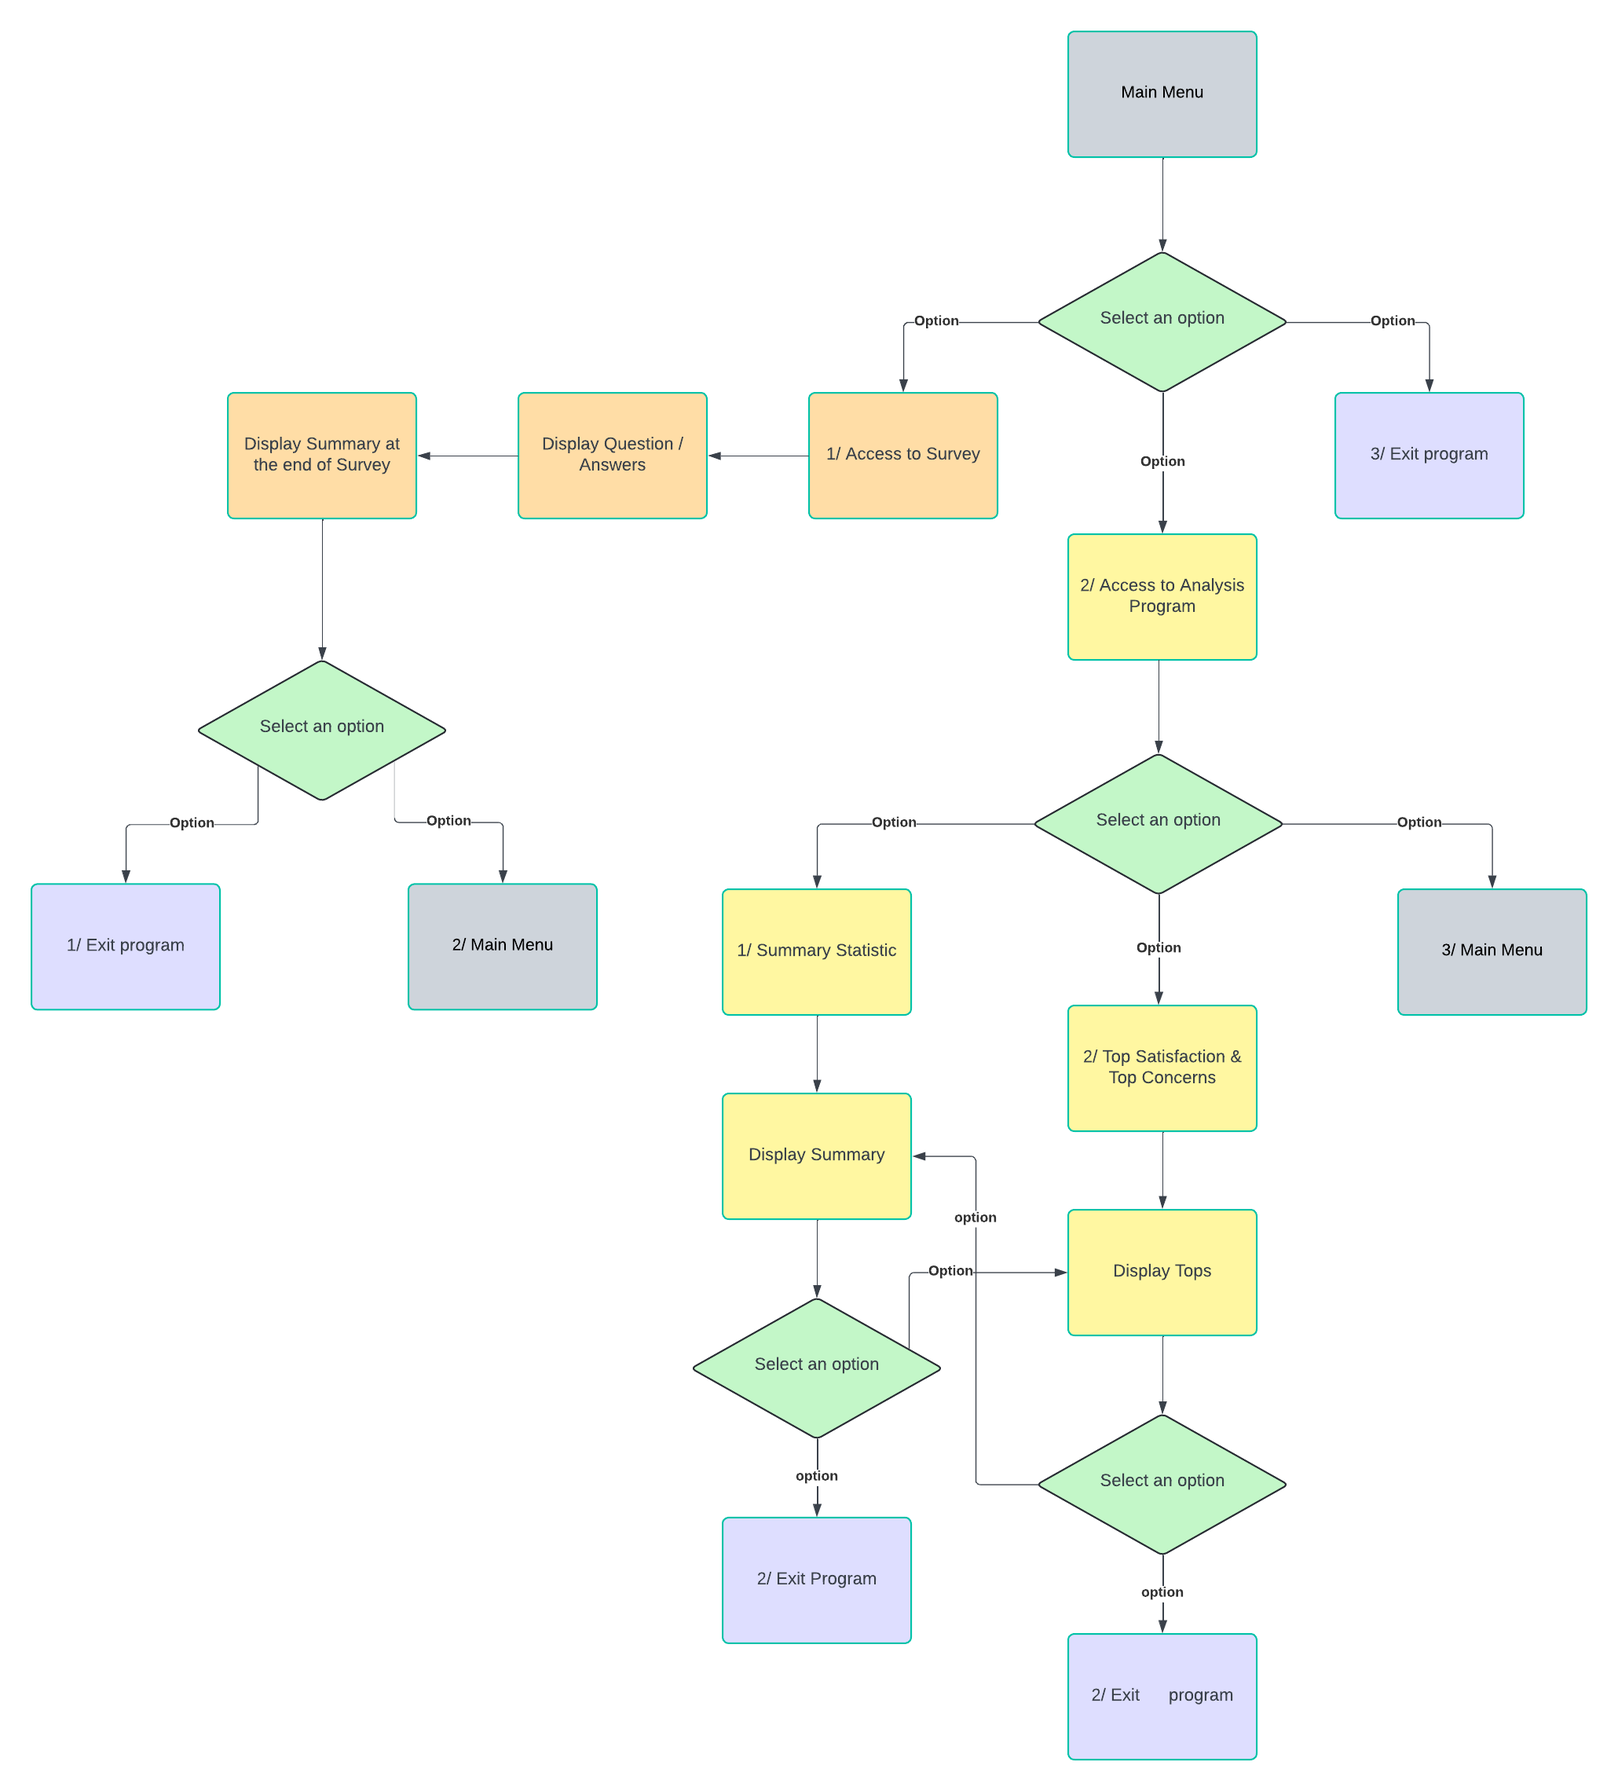
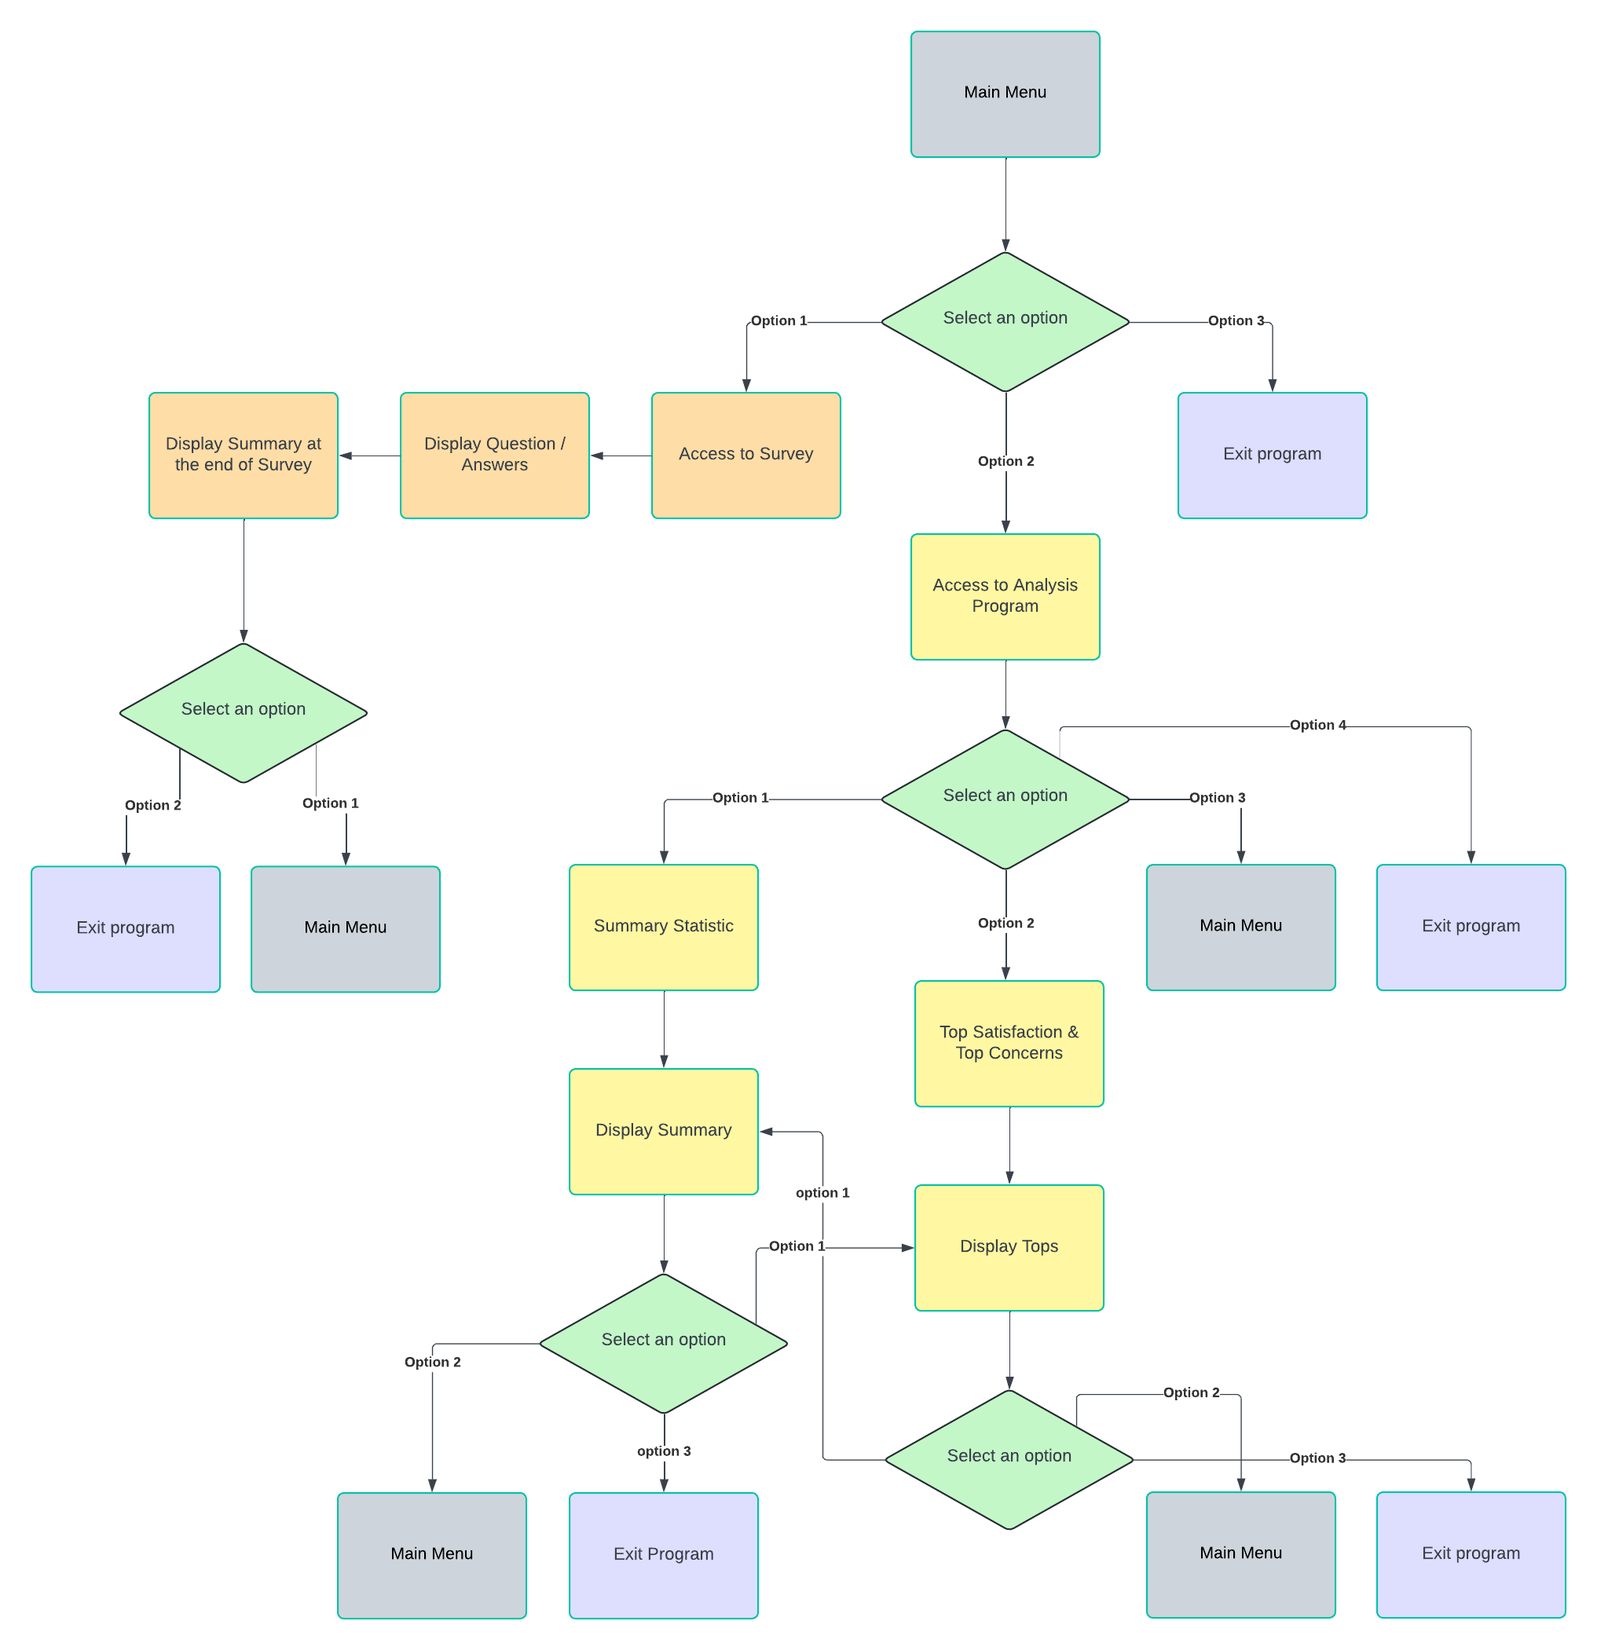
Update README.md.

Changed region(s): [[0.0, 0.1238, 0.9916, 0.99], [0.5578, 0.0, 0.7747, 0.1238], [0.2479, 0.8044, 0.2789, 0.8353]]

diff --git a/run.py b/run.py
@@ -32,20 +32,17 @@ class MenuOptions:
 main_menu = [
     MenuOptions(1, "Access to Survey"),
     MenuOptions(2, "Access to Analysis Program"),
-    MenuOptions(3, "Exit Program")
+    MenuOptions(3, "Exit Program"),
 ]
 
 analysis_menu = [
     MenuOptions(1, "Summary Statistic"),
     MenuOptions(2, "Top Satisfaction & Top Concerns"),
     MenuOptions(3, "Back to Main Menu"),
-    MenuOptions(4, "Exit Program")
+    MenuOptions(4, "Exit Program"),
 ]
 
-next_action_menu = [
-    MenuOptions(1, "Back to Main Menu"),
-    MenuOptions(2, "Exit Program")
-]
+next_action_menu = [MenuOptions(1, "Back to Main Menu"), MenuOptions(2, "Exit Program")]
 
 # Dictionary with Question as key and list of answers as values.
 question_options = {
@@ -150,7 +147,7 @@ def display_main_menu():
     choices = {
         1: ("Accessing Moodtracker Survey...\n", access_survey),
         2: ("Accessing Analysis Program...\n", display_analysis_menu),
-        3: ("Exiting Program...", quit)
+        3: ("Exiting Program...", quit),
     }
     # CREATE A NEW FUNCTION FOR THIS BLOC THAT REPEATS IN DIFFERENT FUNCTIONS?
     if choice in choices:
@@ -166,9 +163,7 @@ def get_user_choice(options):
     # Prompts user for an option.
     while True:
         try:
-            choice = int(
-                input(f"\nPlease enter your selection (1-{len(options)}):\n")
-                )
+            choice = int(input(f"\nPlease enter your selection (1-{len(options)}):\n"))
             if 1 <= choice <= len(options):
                 return choice
             else:
@@ -232,7 +227,7 @@ def next_action():
     # Dictionary to display and access next action.
     choices = {
         1: ("Accessing to Main Menu...\n", display_main_menu),
-        2: ("Exiting Program...", quit)
+        2: ("Exiting Program...", quit),
     }
 
     if choice in choices:
@@ -255,7 +250,7 @@ def display_analysis_menu():
         1: ("Accessing Summary Statistic...\n", summary_statistic),
         2: ("Accessing Top Satisfaction & Top Concerns...\n", top_analysis),
         3: ("Back to Main Menu...\n", display_main_menu),
-        4: ("Exiting Program...", quit)
+        4: ("Exiting Program...", quit),
     }
 
     if choice in choices:
@@ -336,9 +331,7 @@ def top_analysis():
 
         survey_score[header] = total_score
         sorted_score = sorted(
-            survey_score.items(),
-            key=lambda item: item[1],
-            reverse=True
+            survey_score.items(), key=lambda item: item[1], reverse=True
         )
 
     print("Survey results from highest to lowest score:\n")

diff --git a/README.md b/README.md
@@ -1,10 +1,10 @@
-# Moodtracker - The most modern Voice of the Employee tool on the market today.
+# Moodtracker - A modern Voice of the Employee tool.
 
 The [Moodtracker](https://satisfaction-survey-sd-a479e4d4f1cf.herokuapp.com/) project was inspired by a tool already in use at *Workhuman*, the company I work for. This tool is designed to gauge employee satisfaction and provide valuable insights through survey data analysis.
 
 This Python project is a simplified version of the *Workhuman - Moodtracker*. It provides a command-line program that serves two distinct purposes:
 - To allow employees to easily participate in a satisfaction survey.
-- To enable Human Ressources or management to analyze the survey data, generate key insights and identify areas for improvement.
+- To enable Human Ressources or management to analyse the survey data, generate key insights and identify areas for improvement.
 
 **For Employees (Survey Respondents)**:
 - As an employee, I want to easily access and complete the survey questions so that I can share my feedback on the company’s performance, culture and how I feel in my current role.
@@ -12,11 +12,9 @@ This Python project is a simplified version of the *Workhuman - Moodtracker*. It
 - As an employee, I want the survey process to be simple and straightforward so that I can complete it quickly without technical difficulties.
 
 **For Human Ressources & Managers (Survey Analysis)**:
-- As an HR manager, I want to collect and analyze employee responses from the survey so that I can identify satisfaction trends, review the overall sentiment and identify areas of concern within the company.
+- As an HR manager, I want to collect and analyse employee responses so that I can identify trends, review the overall sentiment and identify areas of concern within the company.
 
-- As a manager, I want to generate summary statistics and analyze top satisfaction / concern so I can make data-driven decisions to improve employee satisfaction.
-
-![Responsive Mockup](ADD PICTURE LINK HERE)
+- As a manager, I want to generate summary statistics and analyse top satisfaction and top concerns so I can make data-driven decisions to improve employee satisfaction.
 
 ## Features:
 
@@ -24,33 +22,52 @@ To define the structure of the program, I started by working with a flowchart on
 
 By using a flowchart, I wanted to ensure a smooth, logical flow of data throughout.
 
-![Flowchart](ADD PICTURE LINK HERE)
+![Flowchart](media/flowcharts.png)
 
 ### Existing Features:
 
-![MainMenu](ADD PICTURE LINK HERE)
 **Main Menu**
-- Overview: The Main Menu serves as a starting point for navigating between different sections of the program, allowing users to easily choose between starting the survey or accessing the analysis tools (for authorized personnel).
-- Features:
-  - Clear Option Presentation: The menu presents the available options in a simple, easy-to-read format, ensuring that users can make informed decisions.
+
+- *Overview*: The Main Menu serves as a starting point for navigating between different sections of the program, allowing users to easily choose between starting the survey or accessing the analysis tools.
+- *Features*:
+  - Clear Option Presentation: The menu presents the available options in a simple, easy-to-read format.
   - Input Validation: User inputs are validated to ensure that the selected menu options are valid. If an incorrect option is entered, the program will prompt the user to try again.
   - User Flow: The flow from the main menu to other parts of the program is intuitive, providing a seamless experience.
 
-![Survey](ADD PICTURE LINK HERE)
+![MainMenu](media/main_menu.png)
+
 **Moodtracker Survey**
-- Goal: To collect employee satisfaction levels, ensuring that employees feel heard and valued within the organization. This tool offers a simple and engaging way for employees to provide feedback regurlarly, on different aspects of their job and work environment.
-- Features:
+
+- *Goal*: To collect employee satisfaction levels, ensuring that employees feel heard and valued within the organisation. This tool offers a simple and engaging way for employees to provide feedback regurlarly, on different aspects of their job and work environment.
+- *Features*:
   - Question Display: Employees are presented with one question at a time, allowing them to focus and provide thoughtful responses.
   - Input Validation: The program ensures that all responses are valid by checking inputs. If an invalid input is detected, users are prompted to enter a correct value.
   - User Experience: The survey design is quite simple and user-friendly, guiding employees through the process seamlessly. Prompts and clear instructions make it easy for users to navigate and complete the survey.
+  - Summary: Displays user responses at the end of the survey, providing a clear overview of what will be recorded.
+  - Next Action: The program presents options to move to another section.
 
-![Analysis](ADD PICTURE LINK HERE)
+![Survey](media/survey.png)
+
+![SurveySummary](media/survey_summary.png)
+
+![NextAction](media/next_action.png)
+
 **Analysis Program**
-- Goal: To provide insightful data analysis from a large panel of employee responses, empowering HR and managers with actionable insights.
-- Feature: 
-  - Interactive Menu: The analysis section offers a clean, easy-to-navigate menu with multiple options, enabling users to explore survey results in detail.
-  - Input Validation: Similar to the survey section, user choices are validated. If an invalid selection is made, the program prompts the user to choose a valid option, maintaining smooth navigation.
+
+- *Goal*: To provide insightful data analysis from a large panel of employee responses, empowering Human Ressources and managers with actionable insights.
+- *Feature*: 
+  - Interactive Menu: The analysis section offers a easy-to-navigate menu with multiple options, enabling users to explore survey results in detail.
+  - Input Validation: Similar to the survey section, user choices are validated. If an invalid selection is made, the program prompts the user to choose a valid option.
   - User Experience: This section has been designed to give HR professionals and managers quick access to meaningful statistics, making decision-making more informed and efficient.
+  - Summary Analysis: Provides an overview of the survey results, displaying the count of responses and the percentage breakdown for each answer by question/topic.
+  - Top Satisfaction and Top Concerns: Offers a sorted view, highlighting the highest satisfaction levels down to the most pressing concerns.
+  - Next Action: The program presents options to move to another section.
+
+![AnalysisMenu](media/analysis_menu.png)
+
+![SummaryAnalysis](media/summary_stat.png)
+
+![Tops](media/tops.png)
 
 ### Features left to implement:
 
@@ -62,29 +79,43 @@ By using a flowchart, I wanted to ensure a smooth, logical flow of data througho
 
 ## Manual Testing:
 
-Along the development, I tested bloc of code using  [Python Tutor](https://pythontutor.com/visualize.html#mode=edit) blablabla
+During development, I used [Python Tutor](https://pythontutor.com/visualize.html#mode=edit) to break down and visualize small blocks of code. This tool allowed me to verify the step-by-step execution of the program, catching issues early and confirming that the logic worked as expected.
 
-- **Wire API and Google sheet TEST**
-  - *Expected*: when running the program it is expected to retrieve the data from the worksheet.
-  - *Testing*: tested the program by running run.py in the terminal.
-  - *Result*: the feature responded as expected and displayed the data from the worksheet survey_result
+***Key Tests, Bugs and fixs:***
 
-- **Validate user's selection in the main Menu**
-  - *Expected*: program is expected to verify if the data provided is 1, 2 or 3. If so, the program will move to the section selected. If not it will display a ValueError message and will prompt the user to try again.
-  - *Testing*: tested the program by running run.py in the terminal.
-  - *Result*: the feature responded as expected, with the input 1, 2 or 3, the program informs that it is accessing to the option selected, then accesses the section selected. For any other data, an error message requests that the user tries again as data provided invalid.
+- **API and Google Sheets Integration**
+  - *Expected*: The program retrieves data from the survey_result worksheet upon execution.
+  - *Testing*: Ran run.py in the terminal.
+  - *Result*: Data was retrieved and displayed as expected.
 
-- **Using class and dictionary to list the Main menu Options**
-  - *Expected*: the command line is expected to display the options as: index (1, 2, 3) and name of the section.
-  - *Testing*: tested the program by running run.py in the terminal.
-  - *Result*: the feature did not responded as expected and displayed the index / sections from 3 to 1. 
-  - *Fix*: To fix this and maintain the order of the options, I use a dictionary to preserve the order instead of a set.
-  
+- **Main Menu Input Validation**
+  - *Expected*: The program should only accept valid inputs (1, 2, or 3) and provide access to the choosen section. Invalid inputs should trigger an error message prompting the user to try again.
+  - *Testing*: Ran run.py in the terminal, testing valid and invalid inputs.
+  - *Result*: The program correctly processed valid inputs, allowing access to the selected section. Invalid inputs displayed an appropriate error message.
+
+- **Main Menu Display with Class and Dictionary**
+  - *Expected*: The menu options should display in correct order (1, 2, 3) along with the section names.
+  - *Testing*: Ran run.py in the terminal.
+  - *Result*: The options were displayed in reverse order (3 to 1).
+  - *Fix*: To maintain the correct order, I replaced the set used for storing menu options with a dictionary, which preserves the insertion order.
+
+- **Survey Display**
+  - *Expected*: The program should display survey questions one at a time, allowing users to input their answers before moving to the next question.
+  - *Testing*: Ran run.py in the terminal to simulate the survey.
+  - *Result*: All questions were displayed simultaneously instead of one by one.
+  - *Fix*: The input prompt for user answers was placed outside the loop, causing all questions to appear at once. I moved the input prompt inside the loop, ensuring each question was displayed individually, and the program waited for user input before proceeding to the next question.
+
 - **Survey responses**
-  - *Expected*: the command line is expected to get the user's responses and display a summary (to check if the data is correct).
-  - *Testing*: tested the program by running run.py in the terminal.
-  - *Result*: the feature did not responded as expected and displayed others answers (Satisfied instead of Very Satisfied for example). 
-  - *Fix*: As the answers are stored in a list, the index start at zero and not 1. By substrating 1 form the choice, we'll get the correct answer. Also in the second loop, I was re-using the variable name `answers` already used in the first loop, which confused the program. Re-naming the variable `selected_answer` inside the final print loop resolved clearly distinguishing the correct data to print.
+  - *Expected*: User responses should be collected and displayed in a summary to verify accuracy.
+  - *Testing*: Ran run.py and submitted answers to test the response collection.
+  - *Result*: Incorrect responses were displayed (e.g., "Satisfied" instead of "Very Satisfied").
+  - *Fix*: The issue stemmed from zero-based indexing in the list of answers. By subtracting 1 from the user's choice, I ensured the correct answer was selected. Additionally, I noticed a variable name conflict in the final print loop (`answers` was reused), which confused the program. Renaming it to  `selected_answer` clarified the output.
+
+- **Analysis Menu**
+  - *Expected*: Displays analysis options in the correct order (1, 2, 3).
+  - *Testing*: Ran run.py and checked the order of the menu display.
+  - *Result*: The menu options were displayed in reverse (3 to 1).
+  - *Fix*: Similar to the main menu, I switched to using a dictionary to preserve the correct order. I also corrected a prompt issue by passing the correct variable (`analysis_menu`) to the `get_user_choice` function instead of `main_menu`.
 
 
 ## Refactoring Process: Improving Efficiency and Readability
@@ -95,12 +126,18 @@ Along the development, I tested bloc of code using  [Python Tutor](https://pytho
   - *After Refactoring*: I created a more generic MenuOptions class that could be reused for all menus. With this in place, I only need to define the options in one place and could reuse the same functions for handling the display across multiple menus, reducing duplication.
 
 - **Avoiding repetitions**
-  -  *Before Refactoring*: Despite the MenuOptions class, I noticed that I was still repeating similar blocks of code in multiple parts of the project to display Menu titles and options. For example, both the Main menu and Analysis menu had nearly identical code for introducing the section: ![BeforeRefactoring](ADD PICTURE LINK HERE)
-  - *After Refactoring*: To reduce repetition, I refactored the code by creating 2 generic functions to handle the display of the title, and separatly the display of the options. These functions can be reused across different sections independently.
+  -  *Before Refactoring*: Despite the MenuOptions class, I noticed that I was still repeating similar blocks of code in multiple parts of the project to display Menu titles and options. For example, both the Main menu and Analysis menu had nearly identical code for introducing the section.
+
+![BeforeRefactoring](media/repetition_ex2.png)
+
+  - *After Refactoring*: I created 2 generic functions to handle the display of the title, and separatly the display of the options. These functions can be reused across different sections independently.
+
+![AfterRefactoring](media/repetition_after_ex2.png)
+
 
 ### PEP8 validation
 
-I used *flake8* to test the conformity of the file `run.py` according to PEP8 standards. Below are the setps I followed:
+I used *flake8* to test the conformity of the file `run.py` according to PEP8 standards. Below are the steps I followed:
 - To install the linter in *Gitpod*, I ran the following command in the terminal:
   - `pip install flake8`
 - To run the linter on run.py, I used:
@@ -112,10 +149,11 @@ Here the list of main issues raised and fixed after running flake8:
   - E231: Missing whitespace around operator
   - E501: Line too long (### > 79 characters)
 
-
-### Bugs, Fixes
-
-- **Bug 1**: lalala...
+Using flake8 first was beneficial because it allowed me to understand the specific formatting issues and learn the rules of PEP 8. After a few rounds of manual corrections, I found that switching to an automated tool like *Black* improved efficiency. Below are the steps I followed: 
+- To install black for automatic code formatting:
+  - `pip install black`
+- To format the code using black on the specific file:
+  - `black run.py`
 
 
 ### Deployment Steps
